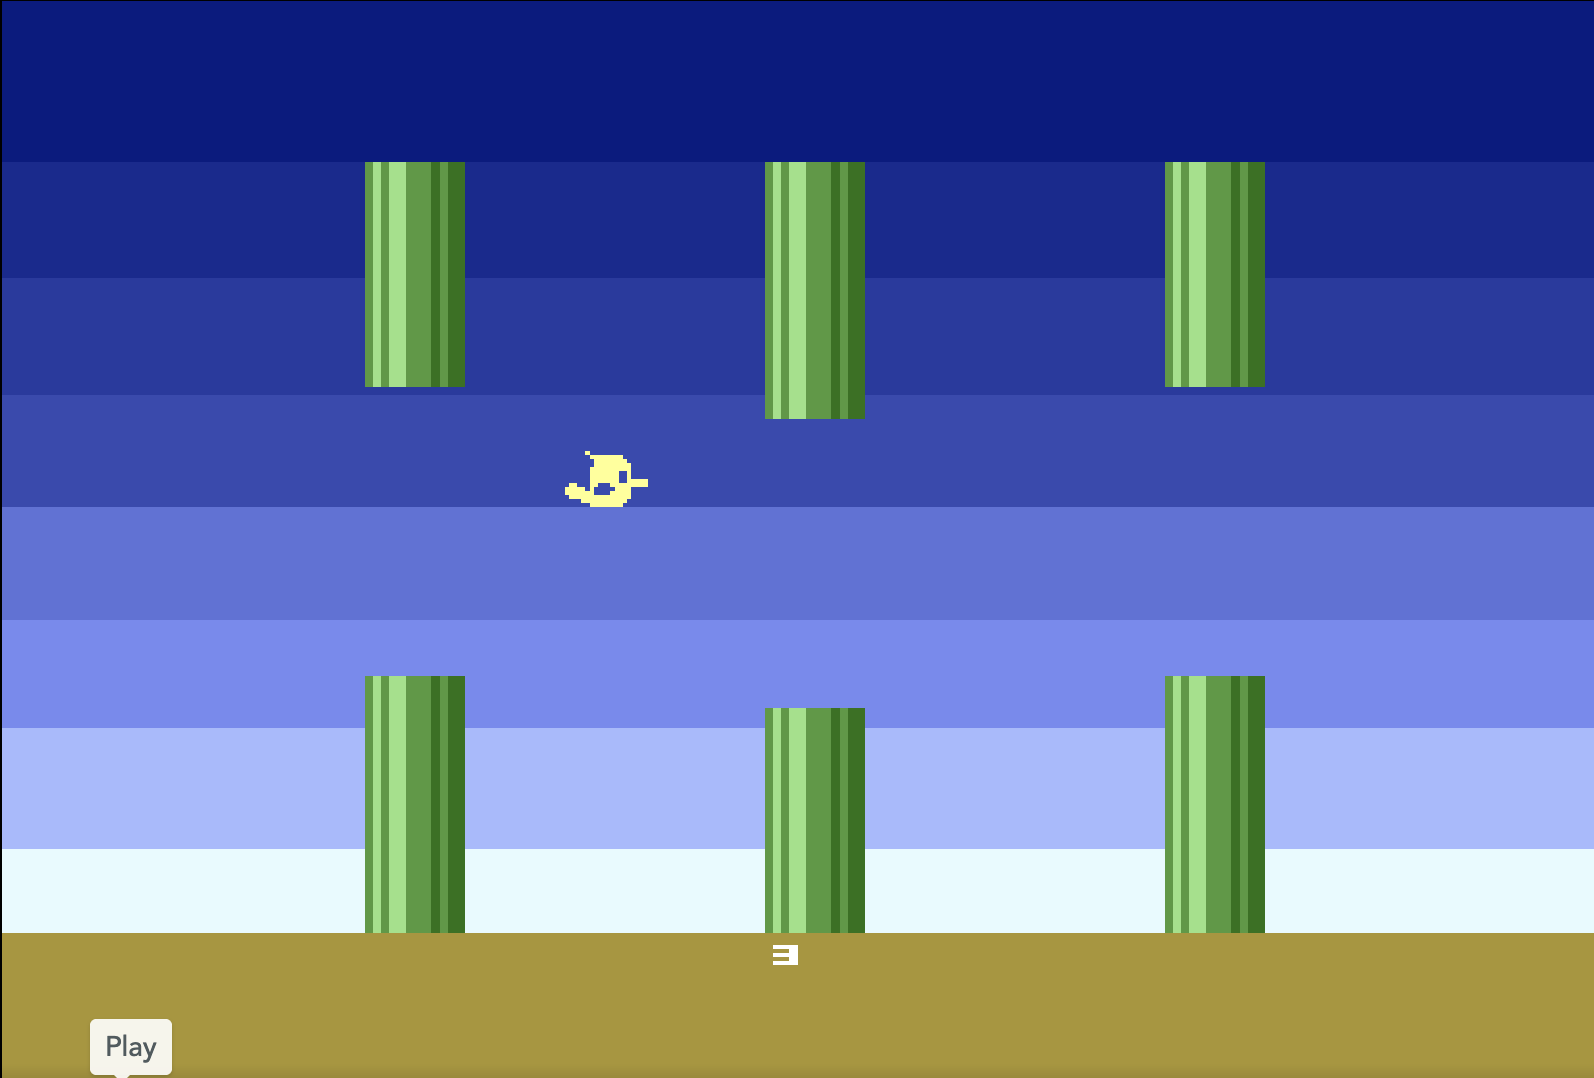
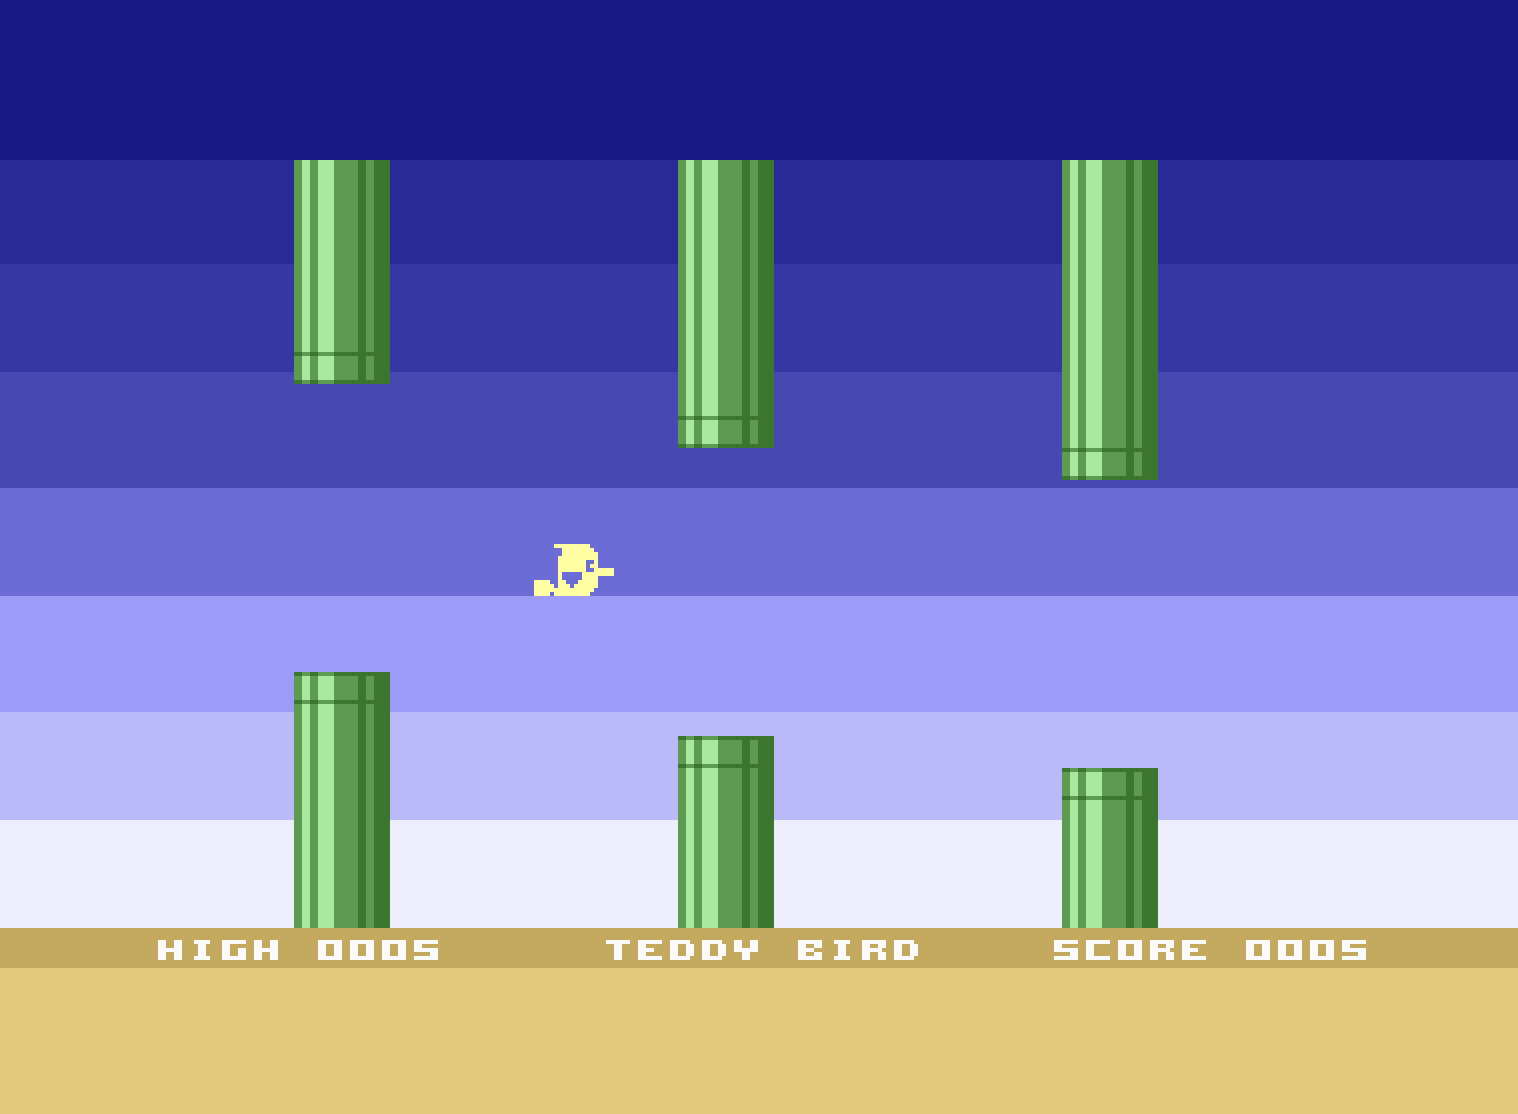
Add dark green HUD strip above the brown border

diff --git a/tests/gradient.py b/tests/gradient.py
@@ -15,11 +15,14 @@ S = {n: int(v, 16) for n, v in re.findall(r'^\s*(\w+)\s*=\s*\$([0-9a-f]+)',
                                         (ROOT / 'build/flappy.sym').read_text(), re.M)}
 COLORS = [(level << 4) + S['BACKGROUND_GRADIENT_COLOR']
           for level in range(1, S['BACKGROUND_GRADIENT_LEVELS'] + 1)]
-COLORS += [S['FRAME_BOTTOM_COLOR'], S['BG_GRADIENT_START_COLOR']]
+COLORS += [S['HUD_BACKGROUND_COLOR'], S['FRAME_BOTTOM_COLOR'], S['BG_GRADIENT_START_COLOR']]
 LINES = [S['BACKGROUND_GRADIENT_FIRST_RASTER']]
 LINES += [level * S['BACKGROUND_GRADIENT_DISTANCE'] + 1
           for level in range(1, S['BACKGROUND_GRADIENT_LEVELS'])]
-LINES += [S['BACKGROUND_GRADIENT_BOTTOM_RASTER'], S['BACKGROUND_GRADIENT_TOP_RASTER']]
+LINES += [S['BACKGROUND_GRADIENT_BOTTOM_RASTER'],
+          S['BACKGROUND_GRADIENT_BOTTOM_RASTER'] + S['HUD_BACKGROUND_HEIGHT'],
+          S['BACKGROUND_GRADIENT_TOP_RASTER']]
+assert S['HUD_BACKGROUND_COLOR'] == 0x15 and S['HUD_BACKGROUND_HEIGHT'] == 11
 
 
 class Memory(list):
@@ -49,8 +52,8 @@ for restart in range(2):
     else:
         raise AssertionError('initialization did not return')
     assert cpu.WordAt(0xfffe) == S['background_gradient_top_irq']
-    for event in range(27):
-        index = event % 9
+    for event in range(3 * len(COLORS)):
+        index = event % len(COLORS)
         if index == 0:
             handler = "background_gradient_top_irq"
         elif index == 7:
@@ -98,5 +101,5 @@ if len(sys.argv) > 1:
         assert (-10 <= offset <= 5 if reg == 'ff19' else -10 <= offset <= 13), (
             reg, line, cycle, color)
         counts[reg, index] += 1
-    assert len(counts) == 18 and min(counts.values()) >= 100, counts
+    assert len(counts) == 2 * len(COLORS) and min(counts.values()) >= 100, counts
     print(f'{sum(counts.values())} VICE color writes passed blank-window checks')

diff --git a/tests/score.py b/tests/score.py
@@ -154,7 +154,7 @@ assert get('GAME_OVER') == 1
 bird_cells = [col for col in range(24 * 40)
               if SYMBOLS['GLYPH_BIRD_LEFT_ROW0'] <= cpu.memory[0x0c00 + col] <= SYMBOLS['GLYPH_BIRD_LAST']]
 assert bird_cells
-assert all(cpu.memory[0x0800 + col] == 0x62 for col in bird_cells)
+assert all(cpu.memory[0x0800 + col] == SYMBOLS['TED_BIRD_DEAD_COLOR'] for col in bird_cells)
 assert score_value() == 0
 assert get('SCROLL_OFFSET') == 0 and get('FLIP_READY') == 1
 print('contact on the scoring frame awards nothing', flush=True)

diff --git a/SPEC.md b/SPEC.md
@@ -252,7 +252,8 @@ Sieben Rasterbaender teilen den aktiven Bildschirm mit konfigurierbarer Grundfar
 Luminanzen 1 bis 7. Hintergrund und Seitenrahmen wechseln bei jedem Schritt
 auf derselben Rasterzeile. Der obere Rahmen bleibt bis zum Bildschirmbeginn
 auf Luminanz 0; am Beginn des unteren Rahmens wechseln Hintergrund und Rahmen
-auf TED-Farbe 9 mit Luminanz 6. Spielberechnung und Bildschirmaufbau bleiben
+zunaechst auf TED-Farbe 5 mit Luminanz 1 fuer elf Pixelzeilen; danach
+folgt der vorhandene Braunton (TED-Farbe 9 mit Luminanz 6). Spielberechnung und Bildschirmaufbau bleiben
 ausserhalb des IRQ.
 
 ### Raster-IRQ und buendige Oberkante
@@ -266,11 +267,13 @@ IRQ vorbereitet. `$FF0A` aktiviert nur den Raster-IRQ samt Vergleichsbit 8.
 
 Die Rastervergleichswerte stehen in `background_gradient_rasters`: erste
 Zeile minus zwei, sechs Vielfache von `BACKGROUND_GRADIENT_DISTANCE`
-(aktuell 28), Boden minus zwei und oberer Rand minus eins. Die Farben kommen
+(aktuell 28), HUD-Beginn minus zwei, Braunbeginn nach elf Zeilen minus eins
+und oberer Rand minus eins. Die Farben kommen
 aus `background_gradient_colors`, auch fuer Oberkante und Boden. Die erste Grenze entspricht
 PAL-Bildzeile `$34` und der ersten Rohrzeile. Der obere Rahmen behaelt bis
 dorthin Luminanz 0. Ab `$C4`, der ersten Rasterzeile von Zeichenzeile 24,
-tragen Hintergrund und Rahmen die Bodenfarbe. Dieselbe IRQ setzt `$FF07`
+tragen Hintergrund und Rahmen fuer elf Rasterzeilen die dunkelgruene
+HUD-Farbe; ab `$CF` wieder die braune Bodenfarbe. Dieselbe IRQ setzt `$FF07`
 auf Scroll 0, nur fuer diese Zeile. Die Spielschleife schreibt den
 Spiel-Scroll im unteren Rand (`$FC`) zurueck, auch wenn der Lauf steht.
 

diff --git a/TECH.md b/TECH.md
@@ -28,8 +28,9 @@ color is set by `TED_BIRD_COLOR` in `src/hardware.inc`. The sky hue is set by
 `BACKGROUND_GRADIENT_COLOR` (currently TED color 6), with luminance 1–7.
 The upper border uses luminance 0. Band spacing is set by
 `BACKGROUND_GRADIENT_DISTANCE` (currently 28 lines). Color 9 at luminance 6
-covers the floor row plus the lower
-border, starting at TED line `$C4`. That same IRQ sets horizontal scroll to 0
+covers the lower border after the HUD. The HUD background starts at TED
+line `$C4` in color 5 at luminance 1 (`$15`) for exactly 11 raster lines;
+the existing brown begins at `$CF`. The HUD-entry IRQ sets horizontal scroll to 0
 for the score row only; the game loop restores the playfield scroll at line
 `$FC`. The active screen occupies TED raster-counter lines `$04` through
 `$CB`. The handler owns the hardware IRQ with ROM banked out and returns
